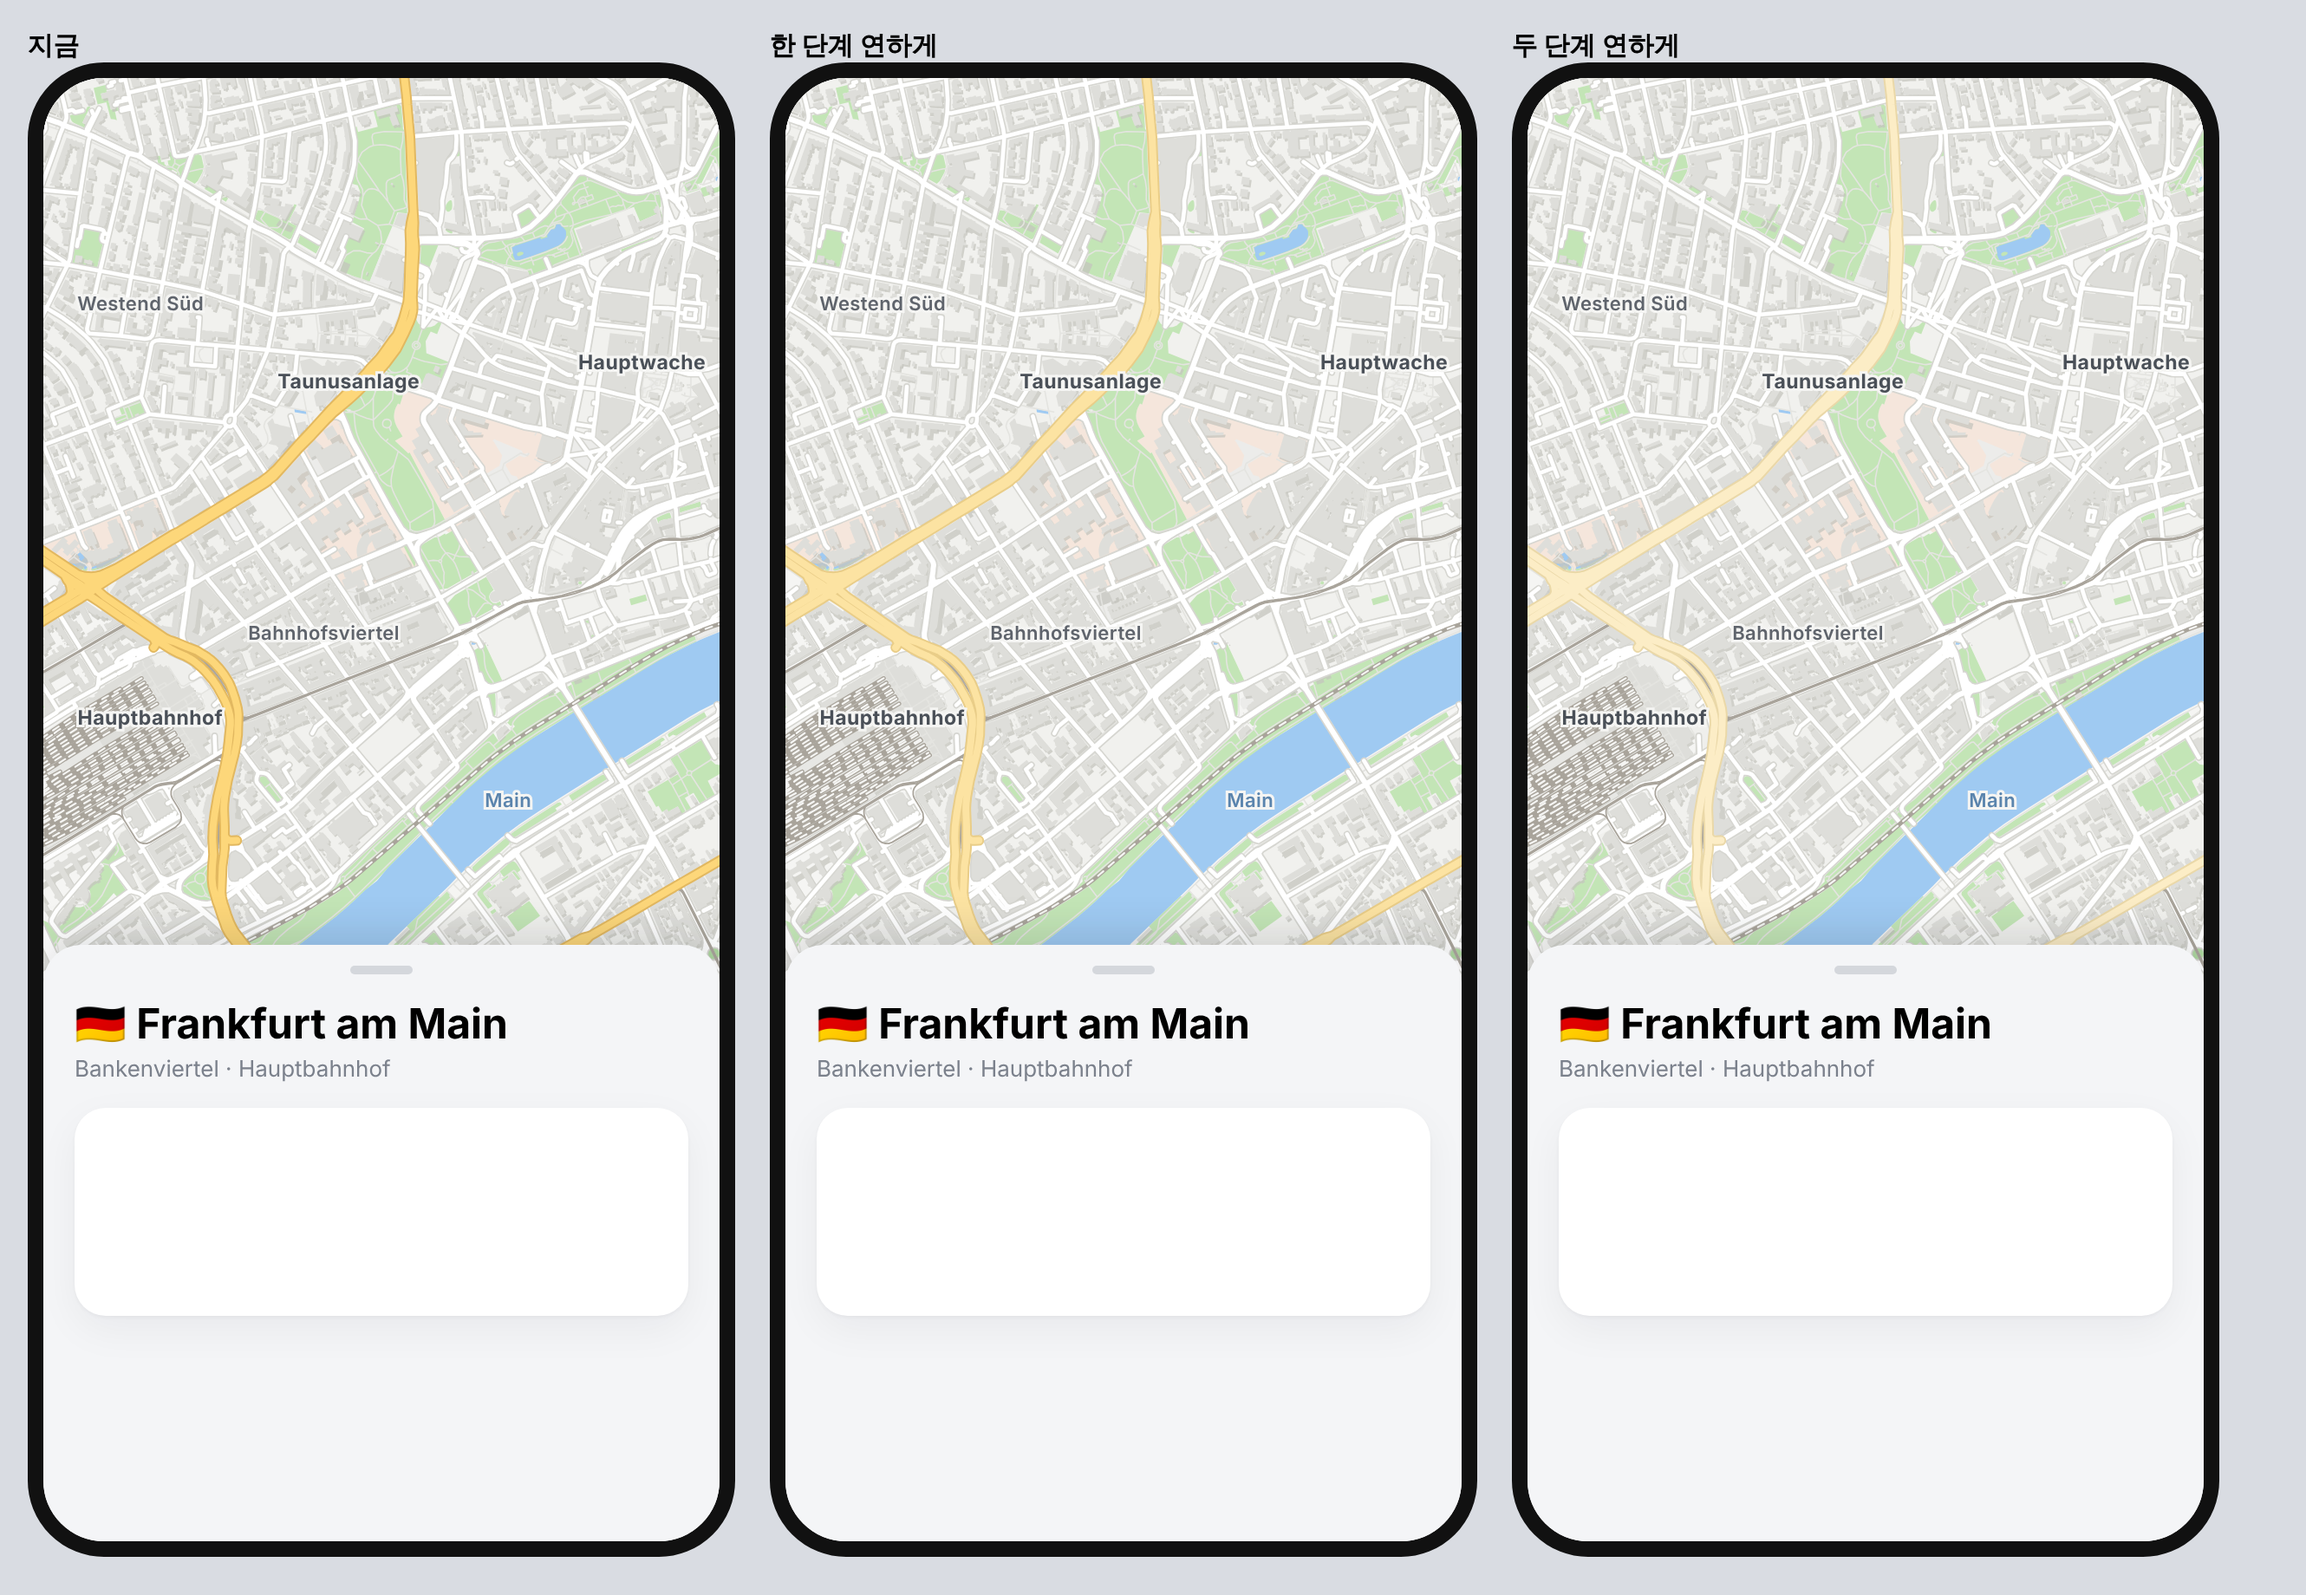
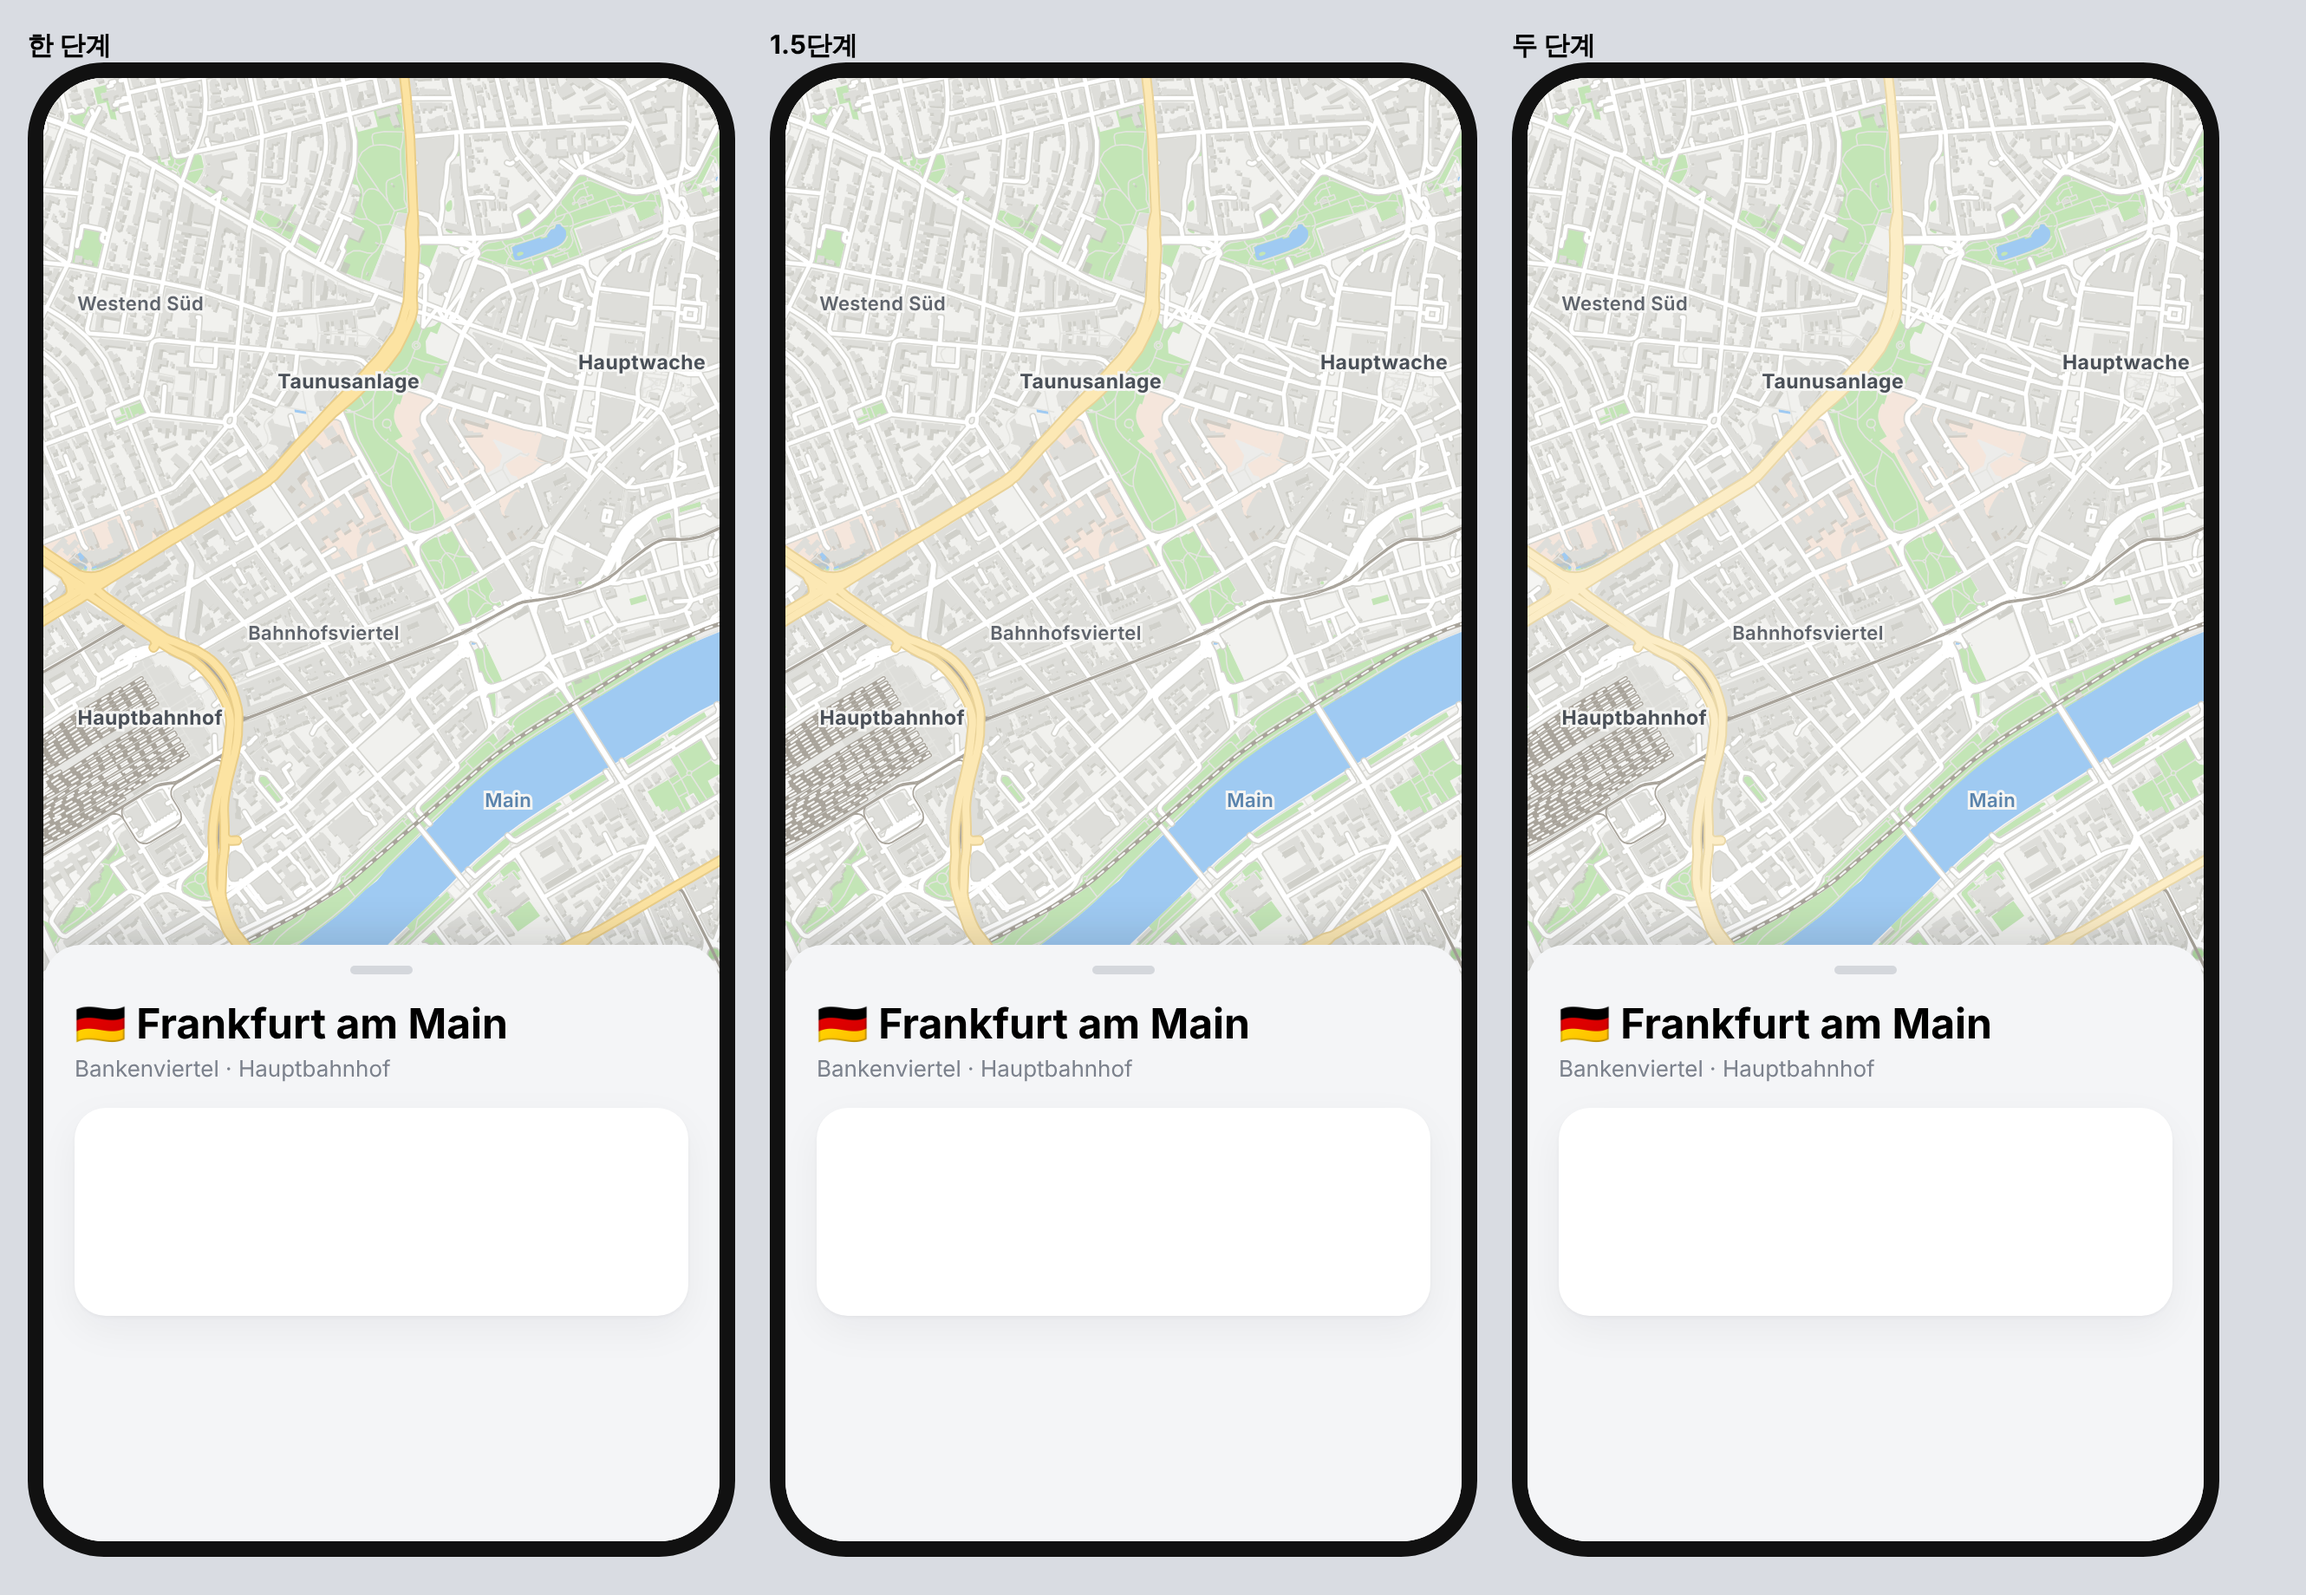
지도 시안: 큰길 노랑 1.5단계 (ROAD=1.5)
Claude-Session: https://claude.ai/code/session_01TBUyc4nvbfrUF2uL1hRtAL

diff --git a/docs/mockups/phone-map/osm/osmmap.js b/docs/mockups/phone-map/osm/osmmap.js
@@ -19,8 +19,8 @@ const PALS = {
     label: '#6a5f50', foot: '#e3d8c3', resi: '#efe6d4', shop: '#f0dcc4', works: '#e2dccf', railyard: '#e3dccd', school: '#efe1b8', plaza: '#ebdfc8', mark: '#d2c09f' },
   terra: { land: '#f1ebe3', built: '#ebe2d8', bld: '#dcc4b2', shadow: '#bea08a', edge: '#d5c7b9', park: '#c8ddb4', forest: '#b3cf9c', water: '#a5c8e6', major: '#f8d58a', majorEdge: '#d9b064',
     label: '#66594f', foot: '#e2d7cc', resi: '#eee6dc', shop: '#f0dccd', works: '#e3ded8', railyard: '#e4ded7', school: '#efe2c0', plaza: '#ebe0d3', mark: '#d0b19b' } };
-// ROAD=1|2: softer yellow for the big roads (1 a step, 2 two steps)
-if (PALS.neutral && process.env.ROAD) Object.assign(PALS.neutral, process.env.ROAD === '2' ? { major: '#fcedc6', majorEdge: '#ead8a8' } : { major: '#fce3a2', majorEdge: '#e9cd88' });
+// ROAD=1|1.5|2: softer yellow for the big roads
+if (PALS.neutral && process.env.ROAD) Object.assign(PALS.neutral, process.env.ROAD === '2' ? { major: '#fcedc6', majorEdge: '#ead8a8' } : process.env.ROAD === '1.5' ? { major: '#fce8b4', majorEdge: '#e9d298' } : { major: '#fce3a2', majorEdge: '#e9cd88' });
 if (PALS[process.env.PAL ?? 'neutral']) Object.assign(C, PALS[process.env.PAL ?? 'neutral']);   // 기본: 2 중립 밝은 톤 + B·C·D
 const d = JSON.parse(require('fs').readFileSync(src, 'utf8'));
 const mx = 111320 * Math.cos(lat0 * Math.PI / 180), my = 110540;
